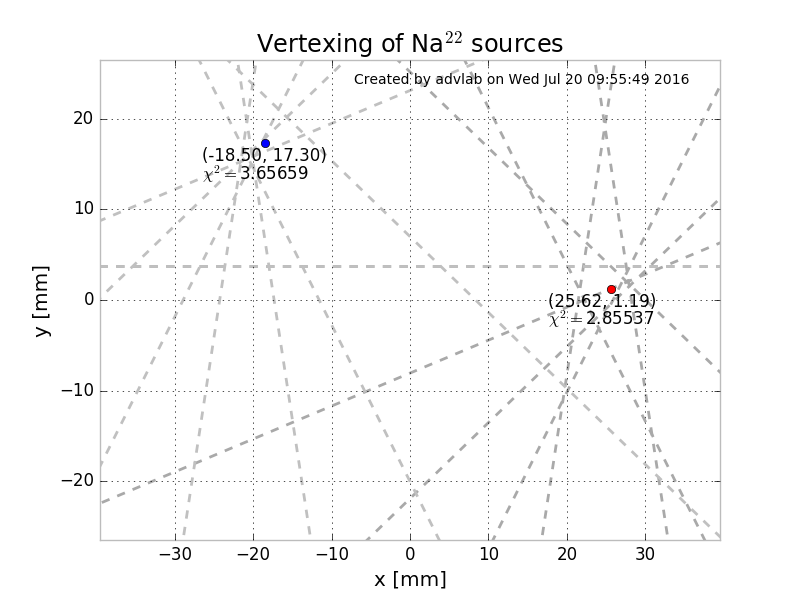
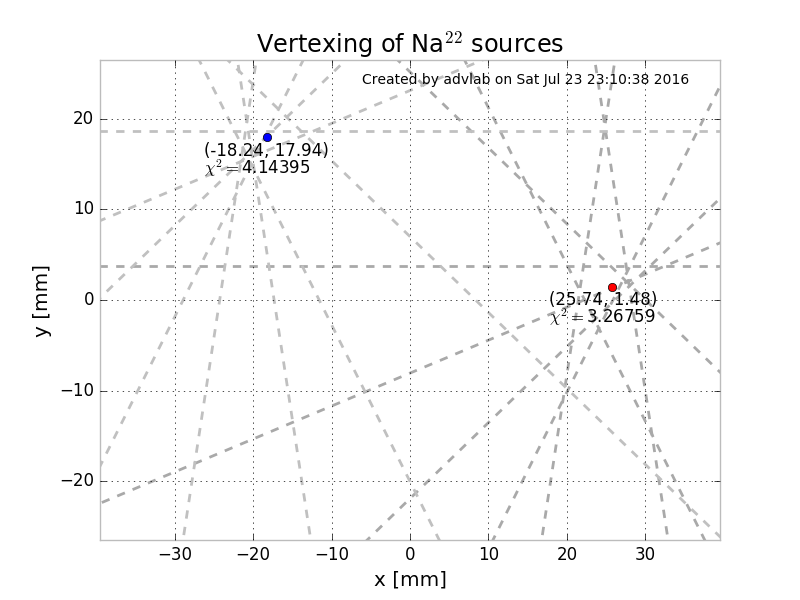
little bug in the drowing the vertexing plot. Fixed.

diff --git a/bin/mkkalmanfilter.py b/bin/mkkalmanfilter.py
@@ -113,10 +113,8 @@ def mkkalmanfilter(**kwargs):
     outfile_name = data.KF_OUTFILE
     save_current_figure(outfile_name.replace('.png','_DISTRIB.png'), clear=False)
 
-    vertex_list = vertex_list[:len(vertex_list)/2]
-    chi2_list = chi2_list[:len(chi2_list)/2]
-    lines_list = lines_list[:len(lines_list)/2]
     ind = np.where(np.array(chi2_list) == min(chi2_list))[0][0]
+    indv = np.where(np.array(vertex_list) == vertex_list[ind][0])[0]
     plt.figure()
     ax = plt.subplot()
     logger.info('1st vertex: (%.2f, %.2f)'%(vertex_list[ind][0],vertex_list[ind][1]))
@@ -130,9 +128,9 @@ def mkkalmanfilter(**kwargs):
                 xytext=(vertex_list[ind][0]-8, vertex_list[ind][1]-2))
     ax.annotate('$\chi^{2}=$'+chi2_label,xy=(vertex_list[ind][0]-8, vertex_list[ind][1]-4),\
                 xytext=(vertex_list[ind][0]-8,vertex_list[ind][1]-4))
-    vertex_list.pop(ind)
-    chi2_list.pop(ind)
-    lines_list.pop(ind)
+    vertex_list = [i for j, i in enumerate(vertex_list) if j not in indv]
+    chi2_list = [i for j, i in enumerate(chi2_list) if j not in indv]
+    lines_list = [i for j, i in enumerate(lines_list) if j not in indv]
     ind2 = np.where(np.array(chi2_list) == min(chi2_list))[0][0]
     logger.info('2nd vertex: (%.2f, %.2f)'%(vertex_list[ind2][0],vertex_list[ind2][1]))
     logger.info('Chi2 = %f'%chi2_list[ind2])

diff --git a/utils/gBox.py b/utils/gBox.py
@@ -94,8 +94,8 @@ def build_states(th_list, y_list, sigy_list, return_lines=False):
         else:
             uk = 1./1e-10
             xk = uk*(yref - q)
-            sig_uu = uk*2*a/b
-            sig_xx = xk*np.sqrt(sig_uu**2 + sigy_list[i]**2)
+            sig_uu = 2*a/b#*uk
+            sig_xx = np.sqrt(sig_uu**2 + sigy_list[i]**2)*xk
         state_list.append((xk, uk))
         cov_list.append(np.array([[sig_xx*sig_xx, 0.], [0., sig_uu*sig_uu]]))
         lines.append(line)
